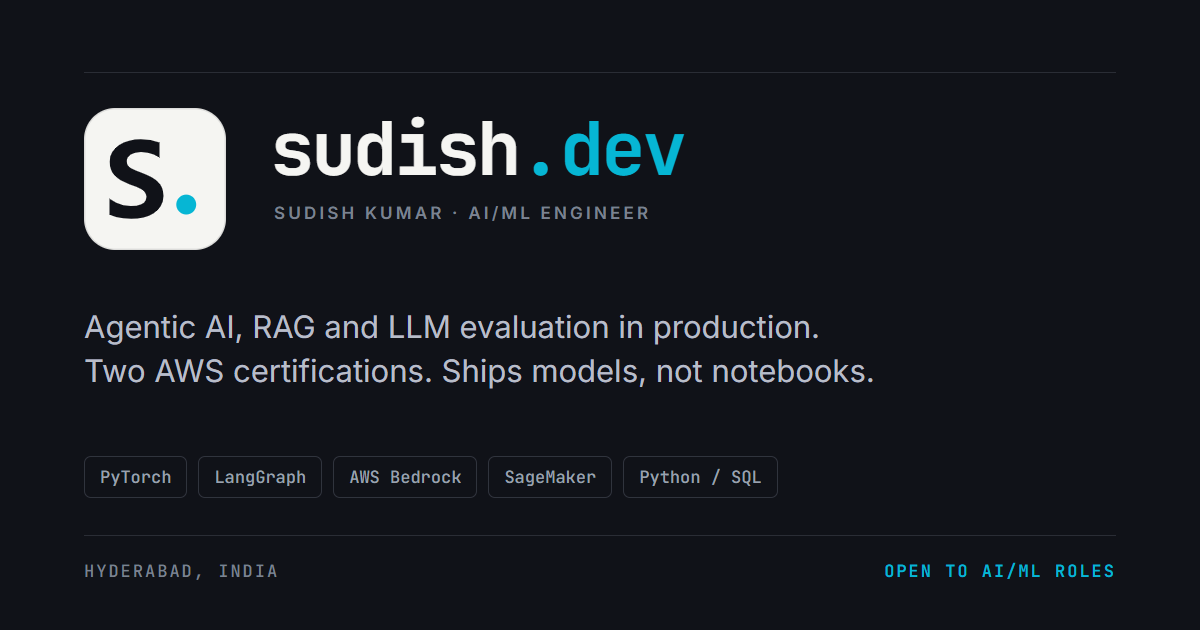
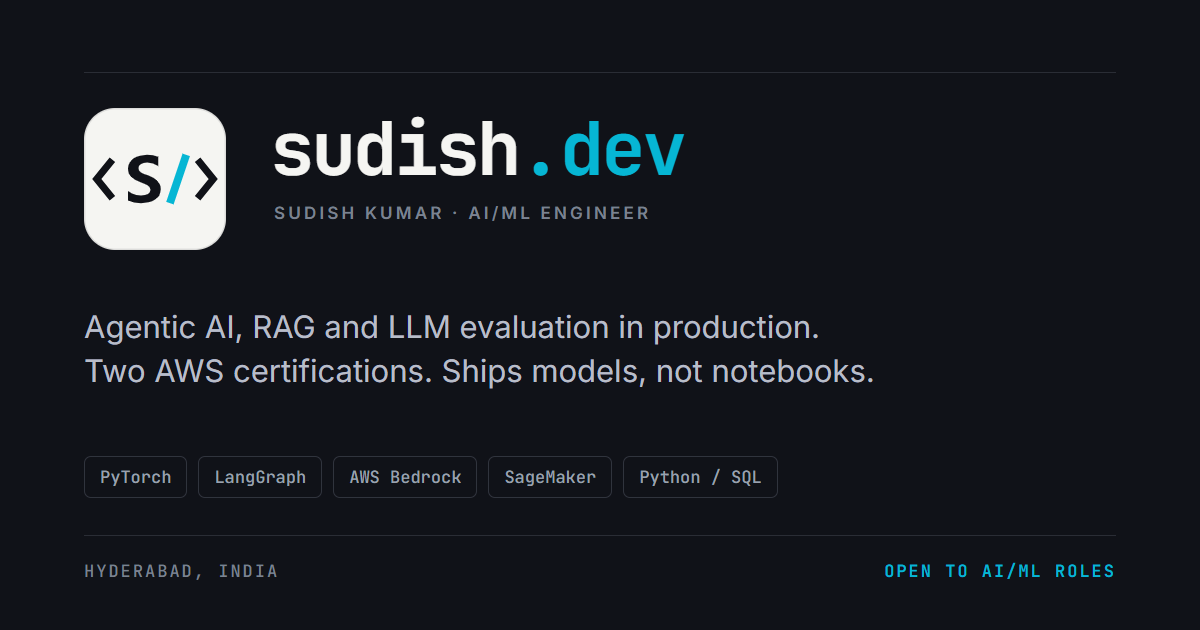
Brand mark: replace s. with the <s/> Self-Closing Signature
Custom-drawn code mark with ink brackets/lowercase s and a single cyan slash. Includes a heavier optical favicon/nav variant, standard display mark, mono mark, dark/light lockups, regenerated install/touch icons, social card and updated usage guide. Keeps the sudish.dev wordmark unchanged.

Changed region(s): [[0.0617, 0.2111, 0.185, 0.3619]]

diff --git a/index.html b/index.html
@@ -67,7 +67,7 @@
 <!-- Nav -->
 <nav class="nav" aria-label="Primary">
 <div class="container nav-inner">
-<a href="#top" class="logo" aria-label="sudish.dev — home"><span class="logo-mark"><img src="assets/brand/mark.svg" alt="" width="28" height="28"></span><span class="logo-text">sudish<b>.dev</b></span></a>
+<a href="#top" class="logo" aria-label="sudish.dev — home"><span class="logo-mark"><img src="assets/brand/favicon.svg" alt="" width="28" height="28"></span><span class="logo-text">sudish<b>.dev</b></span></a>
 <ul class="nav-links" id="navLinks">
 <li><a href="#skills">Skills</a></li>
 <li><a href="#experience">Experience</a></li>

diff --git a/legal.html b/legal.html
@@ -40,7 +40,7 @@
 
 <nav class="nav scrolled" aria-label="Primary">
 <div class="container nav-inner">
-<a href="./" class="logo" aria-label="sudish.dev — home"><span class="logo-mark"><img src="assets/brand/mark.svg" alt="" width="28" height="28"></span><span class="logo-text">sudish<b>.dev</b></span></a>
+<a href="./" class="logo" aria-label="sudish.dev — home"><span class="logo-mark"><img src="assets/brand/favicon.svg" alt="" width="28" height="28"></span><span class="logo-text">sudish<b>.dev</b></span></a>
 <ul class="nav-links" style="display:flex">
 <li><a href="./">Home</a></li>
 <li><a href="services.html">Services</a></li>

diff --git a/services.html b/services.html
@@ -42,7 +42,7 @@
 
 <nav class="nav" aria-label="Primary">
 <div class="container nav-inner">
-<a href="./" class="logo" aria-label="sudish.dev — home"><span class="logo-mark"><img src="assets/brand/mark.svg" alt="" width="28" height="28"></span><span class="logo-text">sudish<b>.dev</b></span></a>
+<a href="./" class="logo" aria-label="sudish.dev — home"><span class="logo-mark"><img src="assets/brand/favicon.svg" alt="" width="28" height="28"></span><span class="logo-text">sudish<b>.dev</b></span></a>
 <ul class="nav-links" id="navLinks">
 <li><a href="./">Home</a></li>
 <li><a href="./#projects">Projects</a></li>

diff --git a/assets/brand/README.md b/assets/brand/README.md
@@ -1,11 +1,11 @@
 # sudish.dev identity
 
 ## Idea
-The primary identity is the domain itself: **sudish.dev**. The compact mark is **s.** — the first letter of Sudish followed by the domain period. The period also reads as a code token and as completion. It is the only colour accent.
+The primary identity is **sudish.dev**. The compact mark is **`<s/>`**: a self-closing component whose content is Sudish's initial. It communicates coding immediately without adding terminals, circuits, gradients or decorative effects. The slash is the only colour accent and carries the idea of syntax, execution and closure.
 
 ## Logo system
-- `mark.svg`: compact mark for nav, profiles, app tiles and large icons.
-- `favicon.svg`: optically enlarged compact mark for 16–32 px use.
+- `mark.svg`: standard `<s/>` mark for profiles, app tiles, lockups and display at 48 px or larger.
+- `favicon.svg`: optically enlarged and thickened variant for favicons and navigation at 16–32 px.
 - `logo-horizontal-dark.svg`: primary lockup on dark backgrounds.
 - `logo-horizontal-light.svg`: primary lockup on light backgrounds.
 - `mark-mono.svg`: one-colour production mark.
@@ -14,12 +14,19 @@ The primary identity is the domain itself: **sudish.dev**. The compact mark is *
 ## Colours
 - Ink: `#101218`
 - Paper: `#f5f5f2`
-- Accent: `#06b6d4` (dark contexts and the non-text period) / `#0e7490` (light-context text; 4.9:1 on paper)
+- Accent slash: `#06b6d4` on the mark and dark contexts
+- Light-context `.dev`: `#0e7490` (4.9:1 on paper)
 - Slate: `#687080`
 
+## Construction
+- Brackets and slash use the same visual weight and square terminals.
+- The lowercase `s` is an outlined Segoe UI Semibold glyph; the SVG has no runtime font dependency.
+- The favicon is not a simple downscale: its brackets, slash and `s` are wider for optical clarity.
+
 ## Usage
-- Keep clear space around the mark equal to the diameter of the period.
+- Keep clear space around the mark equal to the slash width.
 - Minimum digital size: favicon variant at 16 px; standard mark at 24 px.
-- Never add gradients, glow, drop shadows, outlines, rotations or extra code punctuation.
-- Do not recolour the period independently from the approved accent.
+- Keep the `sudish.dev` wordmark beside the optical small mark in navigation whenever space allows; use the small mark alone on phones, and the standard mark for avatars/large placements.
+- Never add gradients, glow, drop shadows, circuits, nodes, rotations or additional punctuation.
+- The slash is the only accent; brackets and `s` remain ink.
 - For one-colour reproduction, use `mark-mono.svg`.
